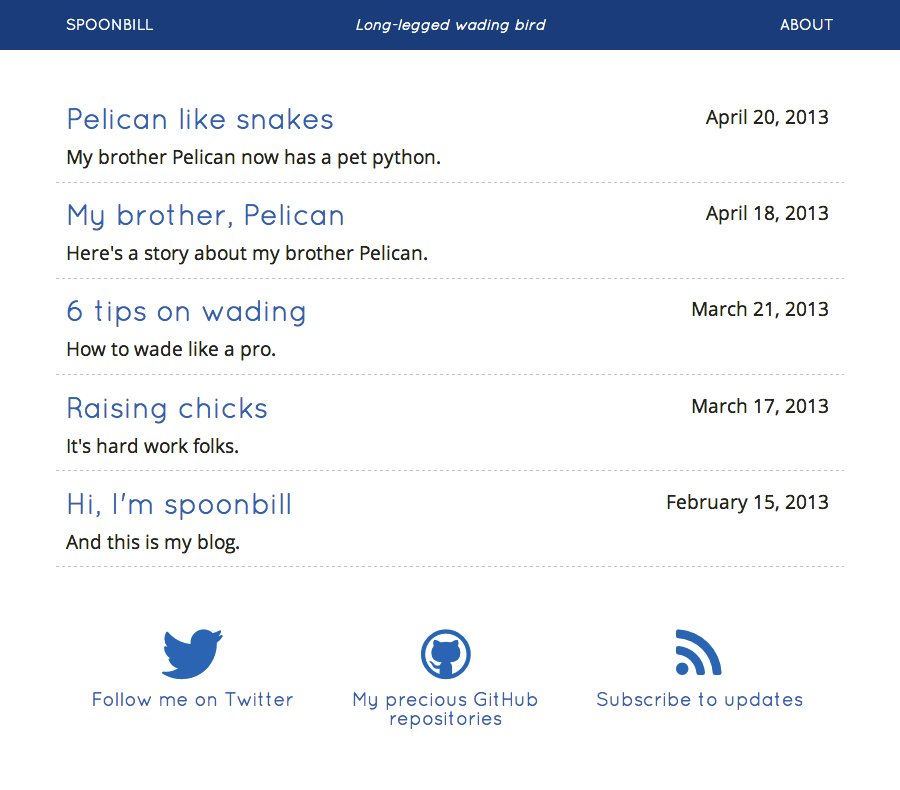
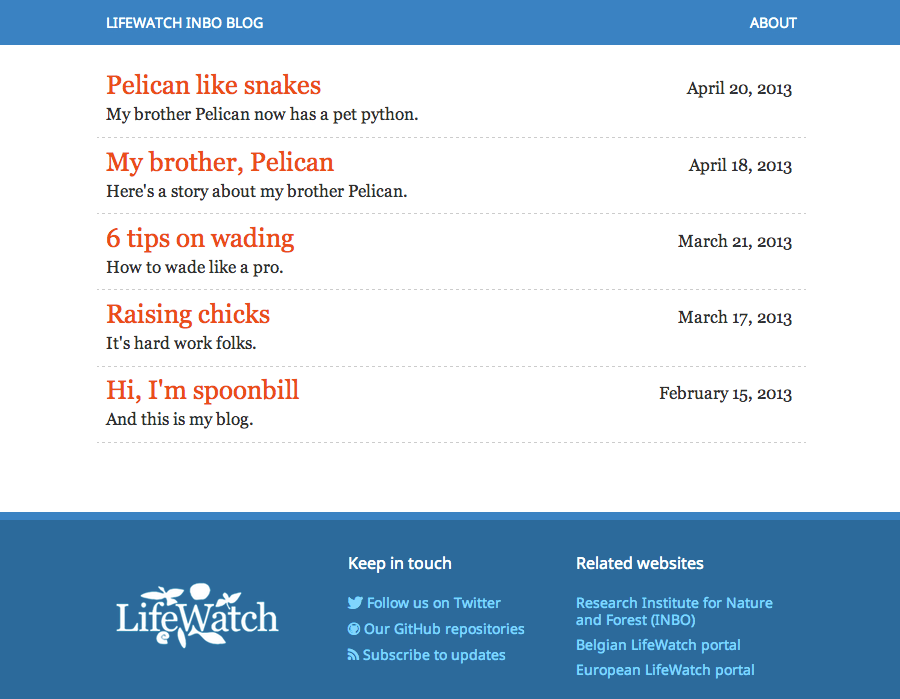
Update readme and screenshot

diff --git a/README.md b/README.md
@@ -1,58 +1,14 @@
-# Spoonbill
+# Eurasian Spoonbill
 
 ## Introduction
 
-Spoonbill is a theme for [Pelican](http://docs.getpelican.com/) powered blogs. I use it for [my own blog](http://peterdesmet.com) and it was inspired by [Zach Holman](http://zachholman.com/)'s blog.
+Eurasian Spoonbill is a theme for [Pelican](http://docs.getpelican.com/) powered blogs, forked from [Spoonbill](https://github.com/peterdesmet/spoonbill). We adapt and use it for our project blog.
 
 ![screenshot](screenshot.png)
 
-## Installation
+## Installation, settings, dependecies, etc.
 
-These instructions assume you have completed the [Getting Started](http://docs.getpelican.com/en/latest/getting_started.html) guide and have a working Pelican site.
-
-1. Clone or download the Spoonbill theme and move it to the directory of your choice, e.g. `~/my-themes/spoonbill`.
-2. Generate your site from the command line, with the `-t` option for themes. For example:
-
-		pelican ~/my-site/content -s ~/my-site/content/settings.py -t ~/my-themes/spoonbill
-
-3. Your spoonbilled site is now available in the output directory.
-4. If you like it, add a link to the Spoonbill directory in your Pelican settings file, so you won't need to specify the theme each time you generate the site. For example:
-
-		THEME = "~/my-themes/spoonbill"
-
-
-For more options, see the [Pelican documentation regarding theme settings](http://docs.getpelican.com/en/latest/settings.html#themes).
-
-## Settings
-
-Spoonbill has some custom Pelican setting identifiers. Don't forget to include them in your [settings file](http://docs.getpelican.com/en/latest/settings.html).
-
-	SITEDESCRIPTION = "Site description for in description meta tag"
-	GOOGLE_WEBMASTER = "Google Webmasters Tools verification code"
-	TWITTER_URL = "URL to your Twitter account (used in footer)"
-
-## Dependencies
-
-* [Pelican](http://docs.getpelican.com/), a static site generator written in [Python](http://www.python.org/).
-* [Open Sans](http://www.google.com/fonts/specimen/Open+Sans) font (normal & **bold**) for body text (served via Google Fonts).
-* [Quicksand](http://www.google.com/fonts/specimen/Quicksand) font for header text (served via Google Fonts).
-* [Font Awesome](http://fortawesome.github.io/Font-Awesome/) for icons (included).
-* [normalize.css](https://github.com/necolas/normalize.css) for CSS resets (included).
-* [modernizr-2.6.2.min.js](http://modernizr.com/) for browser support detection (included).
-
-Spoonbill is based on [html5boilerplate](http://html5boilerplate.com/). The following default files are included, but not activated: `js/main.js`, `js/plugins.js`, `js/vendor/jquery-1.9.1.min.js` (see at the end of [base.html](templates/base.html)).
-
-## Limitations
-
-Translations are not supported.
-
-## Alternatives
-
-There are a whole bunch of [Pelican themes available on GitHub](https://github.com/getpelican/pelican-themes).
-
-## How to contribute
-
-Feel free to [fork this repo](https://help.github.com/articles/fork-a-repo). If you want to contribute something back, [send a pull request](https://help.github.com/articles/using-pull-requests). I'm always happy to [get feedback](https://twitter.com/peterdesmet).
+See [Spoonbill repository](https://github.com/peterdesmet/spoonbill).
 
 ## License
 
